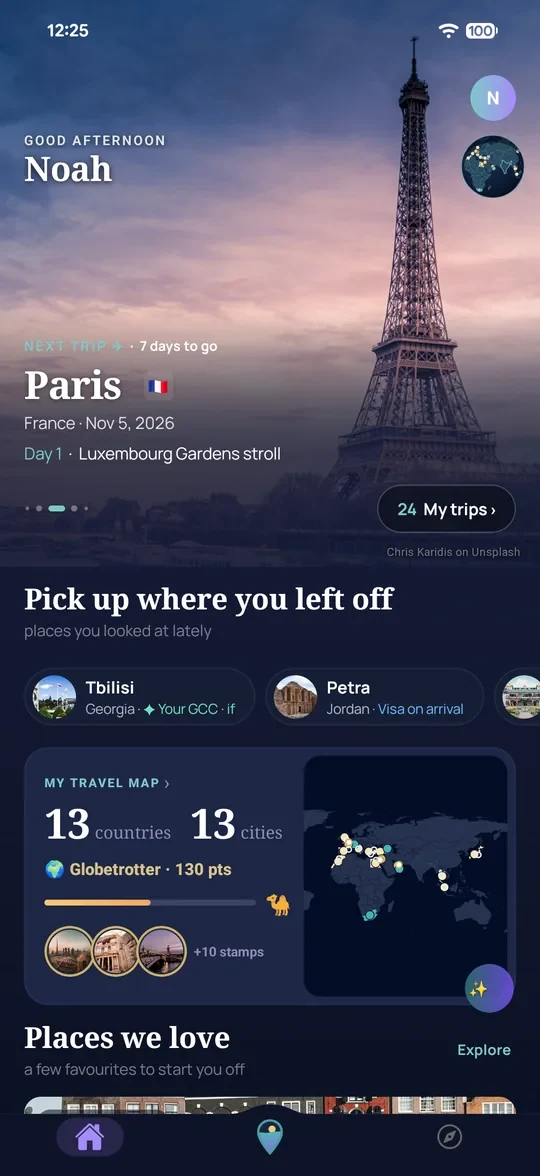
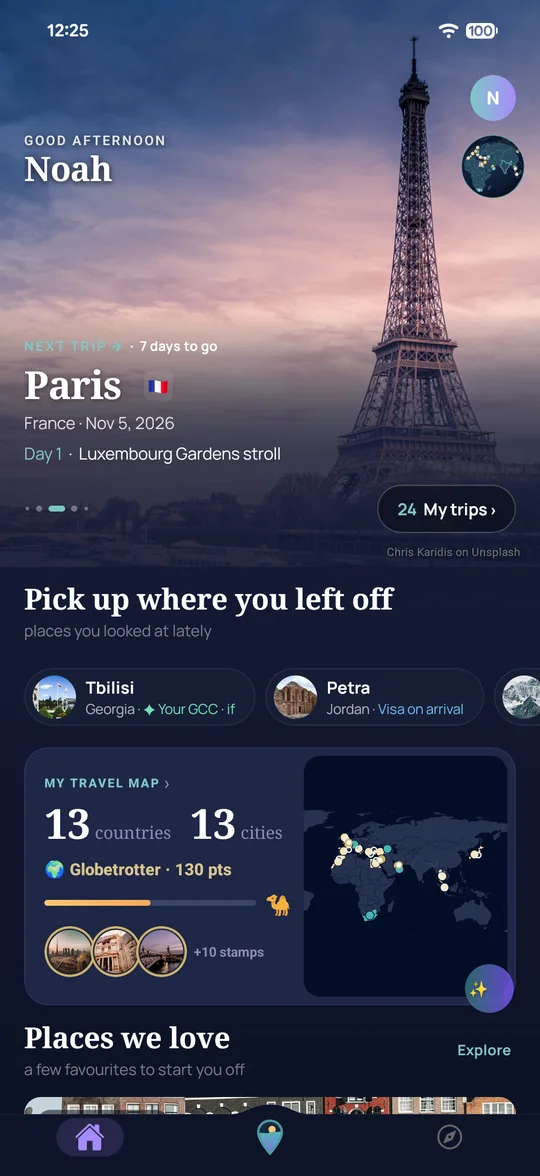
HQ #97 item 3 (founder, 1 Nov 2026 17:49/17:52): Delhi out of the three hero phone pictures - "Pick up where you left off" reads Tbilisi · Petra · Swiss Alps
The test account (cryptcalls) opened Swiss Alps, Petra and Tbilisi in the release app (v71) on the Pixel; its real Home was captured at
18:29. Only the chip row (rows 1255-1348 of the 1008x2244 capture, aligned to the pixel: the title rows above match exactly) was put into
the approved captures - the 31 Oct design-system sources that carry the #39 white 100 battery. Same pictures, same crops (540x1202, top
1176), same sizes; outside the row the pictures differ only by WebP re-encoding noise. A fresh reviewer first FAILED a version built from
the 30 Oct sources (it brought back the green charging battery); rebuilt from the right sources, it passed all five checks.
"Swiss Alps" is a real place in the app (the region row), so no stand-in was needed.
stamp-assets moved the three fingerprints (index.html, check.html), so a returning phone gets the new pictures.

diff --git a/index.html b/index.html
@@ -252,7 +252,7 @@
       <div class="glow"></div>
       <div class="phone"><div class="scr" id="scr">
 <!-- PHONE:START (written by tools/build-home.js) -->
-        <img class="on" src="/assets/app/home-paris.webp?v=2090466f" alt="The brimm Home screen with a Paris trip as the next trip" width="540" height="1176" fetchpriority="high">
+        <img class="on" src="/assets/app/home-paris.webp?v=abe58dd3" alt="The brimm Home screen with a Paris trip as the next trip" width="540" height="1176" fetchpriority="high">
 <!-- PHONE:END -->
       </div></div>
     </div>
@@ -398,7 +398,7 @@
   // Less motion asked for: the first photo stays, nothing moves.
   // every address built below asks av() for its fingerprint (HQ #94: a changed photo gets a new address, so no phone keeps the old one)
 /* ASSET-V:START (written by tools/stamp-assets.js) */
-  var AV = {"app/also.webp":"cdd0a7aa","app/ask.webp":"ae39a017","app/besttime.webp":"d264b3b8","app/budget.webp":"dda03dbe","app/chip-petra.webp":"39472d30","app/chip-tbilisi.webp":"83dbde8c","app/day.webp":"7b109c97","app/explore.webp":"1314bd23","app/globe.webp":"0f9b79ec","app/home-dubai.webp":"6b682856","app/home-paris.webp":"2090466f","app/home-singapore.webp":"1c4b822e","app/planning.webp":"79bc8ded","app/share.webp":"c0c731f5","app/travelmap.webp":"1ccfdc11","app/uae.webp":"93ff21cf","app/visa.webp":"4359d7c2","hero/abu-dhabi-960.jpg":"b495e8d6","hero/abu-dhabi.jpg":"3c96eb57","hero/baku-960.jpg":"2e6baacf","hero/baku.jpg":"ee3646d0","hero/bali-960.jpg":"a685dd7e","hero/bali-wall.jpg":"aad88f09","hero/bali.jpg":"7ca5cab7","hero/bangkok-960.jpg":"117b2ed4","hero/bangkok.jpg":"19b265f6","hero/barcelona-960.jpg":"acccb6ac","hero/cairo-960.jpg":"76a563a4","hero/cairo.jpg":"1c61ad8c","hero/cappadocia-960.jpg":"06f9c241","hero/cappadocia.jpg":"a687e9fa","hero/chiang-mai-960.jpg":"c4c6c698","hero/chiang-mai.jpg":"4d976f59","hero/doha-960.jpg":"056dbd39","hero/doha.jpg":"df99608a","hero/dubai-960.jpg":"b76ada80","hero/dubai.jpg":"064d296c","hero/goa-960.jpg":"72a9728a","hero/goa.jpg":"6beab113","hero/istanbul-960.jpg":"6e2f39fc","hero/istanbul-wall.jpg":"9a3cd34e","hero/istanbul.jpg":"ffcbb2fb","hero/kyoto-960.jpg":"e53f0be6","hero/kyoto.jpg":"75c1ecd7","hero/lisbon-960.jpg":"de79f1da","hero/lisbon.jpg":"1238d5ba","hero/london-960.jpg":"c7d7e65d","hero/london.jpg":"7111b088","hero/machu-picchu-960.jpg":"d9f8ff65","hero/machu-picchu.jpg":"70fb75d0","hero/maldives-960.jpg":"3dd16df2","hero/maldives.jpg":"08fbebd2","hero/marrakech-960.jpg":"0cba6f1b","hero/marrakech.jpg":"8accbdf5","hero/muscat-960.jpg":"a1c385fe","hero/muscat.jpg":"7089d9ff","hero/paris-960.jpg":"29bad64f","hero/paris-wall.jpg":"ec1a3818","hero/paris.jpg":"d1cf2fac","hero/petra-960.jpg":"8d74744c","hero/petra.jpg":"b8664f04","hero/pokhara-960.jpg":"78856d46","hero/pokhara.jpg":"273b11a2","hero/queenstown-960.jpg":"280d095c","hero/queenstown.jpg":"2177e851","hero/rome-960.jpg":"2fb2dc83","hero/singapore-960.jpg":"e000fc0c","hero/singapore.jpg":"d4d8044b","hero/tbilisi-960.jpg":"1110d453","hero/tbilisi-spot.jpg":"8b830c70","hero/tbilisi.jpg":"06f370b5","hero/tokyo-960.jpg":"22140087","hero/tokyo.jpg":"20a36e7e","hero/wadi-rum-960.jpg":"e25d3594","hero/wadi-rum.jpg":"ac1dd86f","hero/zanzibar-960.jpg":"71947f8c","hero/zanzibar.jpg":"cc33c1b5","hero/zurich-960.jpg":"0b56dd11","hero/zurich.jpg":"c5348f3f"};
+  var AV = {"app/also.webp":"cdd0a7aa","app/ask.webp":"ae39a017","app/besttime.webp":"d264b3b8","app/budget.webp":"dda03dbe","app/chip-petra.webp":"39472d30","app/chip-tbilisi.webp":"83dbde8c","app/day.webp":"7b109c97","app/explore.webp":"1314bd23","app/globe.webp":"0f9b79ec","app/home-dubai.webp":"543b5324","app/home-paris.webp":"abe58dd3","app/home-singapore.webp":"211e1ef4","app/planning.webp":"79bc8ded","app/share.webp":"c0c731f5","app/travelmap.webp":"1ccfdc11","app/uae.webp":"93ff21cf","app/visa.webp":"4359d7c2","hero/abu-dhabi-960.jpg":"b495e8d6","hero/abu-dhabi.jpg":"3c96eb57","hero/baku-960.jpg":"2e6baacf","hero/baku.jpg":"ee3646d0","hero/bali-960.jpg":"a685dd7e","hero/bali-wall.jpg":"aad88f09","hero/bali.jpg":"7ca5cab7","hero/bangkok-960.jpg":"117b2ed4","hero/bangkok.jpg":"19b265f6","hero/barcelona-960.jpg":"acccb6ac","hero/cairo-960.jpg":"76a563a4","hero/cairo.jpg":"1c61ad8c","hero/cappadocia-960.jpg":"06f9c241","hero/cappadocia.jpg":"a687e9fa","hero/chiang-mai-960.jpg":"c4c6c698","hero/chiang-mai.jpg":"4d976f59","hero/doha-960.jpg":"056dbd39","hero/doha.jpg":"df99608a","hero/dubai-960.jpg":"b76ada80","hero/dubai.jpg":"064d296c","hero/goa-960.jpg":"72a9728a","hero/goa.jpg":"6beab113","hero/istanbul-960.jpg":"6e2f39fc","hero/istanbul-wall.jpg":"9a3cd34e","hero/istanbul.jpg":"ffcbb2fb","hero/kyoto-960.jpg":"e53f0be6","hero/kyoto.jpg":"75c1ecd7","hero/lisbon-960.jpg":"de79f1da","hero/lisbon.jpg":"1238d5ba","hero/london-960.jpg":"c7d7e65d","hero/london.jpg":"7111b088","hero/machu-picchu-960.jpg":"d9f8ff65","hero/machu-picchu.jpg":"70fb75d0","hero/maldives-960.jpg":"3dd16df2","hero/maldives.jpg":"08fbebd2","hero/marrakech-960.jpg":"0cba6f1b","hero/marrakech.jpg":"8accbdf5","hero/muscat-960.jpg":"a1c385fe","hero/muscat.jpg":"7089d9ff","hero/paris-960.jpg":"29bad64f","hero/paris-wall.jpg":"ec1a3818","hero/paris.jpg":"d1cf2fac","hero/petra-960.jpg":"8d74744c","hero/petra.jpg":"b8664f04","hero/pokhara-960.jpg":"78856d46","hero/pokhara.jpg":"273b11a2","hero/queenstown-960.jpg":"280d095c","hero/queenstown.jpg":"2177e851","hero/rome-960.jpg":"2fb2dc83","hero/singapore-960.jpg":"e000fc0c","hero/singapore.jpg":"d4d8044b","hero/tbilisi-960.jpg":"1110d453","hero/tbilisi-spot.jpg":"8b830c70","hero/tbilisi.jpg":"06f370b5","hero/tokyo-960.jpg":"22140087","hero/tokyo.jpg":"20a36e7e","hero/wadi-rum-960.jpg":"e25d3594","hero/wadi-rum.jpg":"ac1dd86f","hero/zanzibar-960.jpg":"71947f8c","hero/zanzibar.jpg":"cc33c1b5","hero/zurich-960.jpg":"0b56dd11","hero/zurich.jpg":"c5348f3f"};
   function av(u) { var k = u.replace(/^\/assets\//, ''); return AV[k] ? u + '?v=' + AV[k] : u; }
   /* ASSET-V:END */
 /* PHOTOS:START (written by tools/build-home.js) */

diff --git a/check.html b/check.html
@@ -233,7 +233,7 @@
   // the engine build's fingerprint — written by brimm-ai tools/website-check/build-engine.js, so a new engine is never served from a cache
   // every photo address built below asks av() for its fingerprint (HQ #94)
   /* ASSET-V:START (written by tools/stamp-assets.js) */
-  var AV = {"app/also.webp":"cdd0a7aa","app/ask.webp":"ae39a017","app/besttime.webp":"d264b3b8","app/budget.webp":"dda03dbe","app/chip-petra.webp":"39472d30","app/chip-tbilisi.webp":"83dbde8c","app/day.webp":"7b109c97","app/explore.webp":"1314bd23","app/globe.webp":"0f9b79ec","app/home-dubai.webp":"6b682856","app/home-paris.webp":"2090466f","app/home-singapore.webp":"1c4b822e","app/planning.webp":"79bc8ded","app/share.webp":"c0c731f5","app/travelmap.webp":"1ccfdc11","app/uae.webp":"93ff21cf","app/visa.webp":"4359d7c2","hero/abu-dhabi-960.jpg":"b495e8d6","hero/abu-dhabi.jpg":"3c96eb57","hero/baku-960.jpg":"2e6baacf","hero/baku.jpg":"ee3646d0","hero/bali-960.jpg":"a685dd7e","hero/bali-wall.jpg":"aad88f09","hero/bali.jpg":"7ca5cab7","hero/bangkok-960.jpg":"117b2ed4","hero/bangkok.jpg":"19b265f6","hero/barcelona-960.jpg":"acccb6ac","hero/cairo-960.jpg":"76a563a4","hero/cairo.jpg":"1c61ad8c","hero/cappadocia-960.jpg":"06f9c241","hero/cappadocia.jpg":"a687e9fa","hero/chiang-mai-960.jpg":"c4c6c698","hero/chiang-mai.jpg":"4d976f59","hero/doha-960.jpg":"056dbd39","hero/doha.jpg":"df99608a","hero/dubai-960.jpg":"b76ada80","hero/dubai.jpg":"064d296c","hero/goa-960.jpg":"72a9728a","hero/goa.jpg":"6beab113","hero/istanbul-960.jpg":"6e2f39fc","hero/istanbul-wall.jpg":"9a3cd34e","hero/istanbul.jpg":"ffcbb2fb","hero/kyoto-960.jpg":"e53f0be6","hero/kyoto.jpg":"75c1ecd7","hero/lisbon-960.jpg":"de79f1da","hero/lisbon.jpg":"1238d5ba","hero/london-960.jpg":"c7d7e65d","hero/london.jpg":"7111b088","hero/machu-picchu-960.jpg":"d9f8ff65","hero/machu-picchu.jpg":"70fb75d0","hero/maldives-960.jpg":"3dd16df2","hero/maldives.jpg":"08fbebd2","hero/marrakech-960.jpg":"0cba6f1b","hero/marrakech.jpg":"8accbdf5","hero/muscat-960.jpg":"a1c385fe","hero/muscat.jpg":"7089d9ff","hero/paris-960.jpg":"29bad64f","hero/paris-wall.jpg":"ec1a3818","hero/paris.jpg":"d1cf2fac","hero/petra-960.jpg":"8d74744c","hero/petra.jpg":"b8664f04","hero/pokhara-960.jpg":"78856d46","hero/pokhara.jpg":"273b11a2","hero/queenstown-960.jpg":"280d095c","hero/queenstown.jpg":"2177e851","hero/rome-960.jpg":"2fb2dc83","hero/singapore-960.jpg":"e000fc0c","hero/singapore.jpg":"d4d8044b","hero/tbilisi-960.jpg":"1110d453","hero/tbilisi-spot.jpg":"8b830c70","hero/tbilisi.jpg":"06f370b5","hero/tokyo-960.jpg":"22140087","hero/tokyo.jpg":"20a36e7e","hero/wadi-rum-960.jpg":"e25d3594","hero/wadi-rum.jpg":"ac1dd86f","hero/zanzibar-960.jpg":"71947f8c","hero/zanzibar.jpg":"cc33c1b5","hero/zurich-960.jpg":"0b56dd11","hero/zurich.jpg":"c5348f3f"};
+  var AV = {"app/also.webp":"cdd0a7aa","app/ask.webp":"ae39a017","app/besttime.webp":"d264b3b8","app/budget.webp":"dda03dbe","app/chip-petra.webp":"39472d30","app/chip-tbilisi.webp":"83dbde8c","app/day.webp":"7b109c97","app/explore.webp":"1314bd23","app/globe.webp":"0f9b79ec","app/home-dubai.webp":"543b5324","app/home-paris.webp":"abe58dd3","app/home-singapore.webp":"211e1ef4","app/planning.webp":"79bc8ded","app/share.webp":"c0c731f5","app/travelmap.webp":"1ccfdc11","app/uae.webp":"93ff21cf","app/visa.webp":"4359d7c2","hero/abu-dhabi-960.jpg":"b495e8d6","hero/abu-dhabi.jpg":"3c96eb57","hero/baku-960.jpg":"2e6baacf","hero/baku.jpg":"ee3646d0","hero/bali-960.jpg":"a685dd7e","hero/bali-wall.jpg":"aad88f09","hero/bali.jpg":"7ca5cab7","hero/bangkok-960.jpg":"117b2ed4","hero/bangkok.jpg":"19b265f6","hero/barcelona-960.jpg":"acccb6ac","hero/cairo-960.jpg":"76a563a4","hero/cairo.jpg":"1c61ad8c","hero/cappadocia-960.jpg":"06f9c241","hero/cappadocia.jpg":"a687e9fa","hero/chiang-mai-960.jpg":"c4c6c698","hero/chiang-mai.jpg":"4d976f59","hero/doha-960.jpg":"056dbd39","hero/doha.jpg":"df99608a","hero/dubai-960.jpg":"b76ada80","hero/dubai.jpg":"064d296c","hero/goa-960.jpg":"72a9728a","hero/goa.jpg":"6beab113","hero/istanbul-960.jpg":"6e2f39fc","hero/istanbul-wall.jpg":"9a3cd34e","hero/istanbul.jpg":"ffcbb2fb","hero/kyoto-960.jpg":"e53f0be6","hero/kyoto.jpg":"75c1ecd7","hero/lisbon-960.jpg":"de79f1da","hero/lisbon.jpg":"1238d5ba","hero/london-960.jpg":"c7d7e65d","hero/london.jpg":"7111b088","hero/machu-picchu-960.jpg":"d9f8ff65","hero/machu-picchu.jpg":"70fb75d0","hero/maldives-960.jpg":"3dd16df2","hero/maldives.jpg":"08fbebd2","hero/marrakech-960.jpg":"0cba6f1b","hero/marrakech.jpg":"8accbdf5","hero/muscat-960.jpg":"a1c385fe","hero/muscat.jpg":"7089d9ff","hero/paris-960.jpg":"29bad64f","hero/paris-wall.jpg":"ec1a3818","hero/paris.jpg":"d1cf2fac","hero/petra-960.jpg":"8d74744c","hero/petra.jpg":"b8664f04","hero/pokhara-960.jpg":"78856d46","hero/pokhara.jpg":"273b11a2","hero/queenstown-960.jpg":"280d095c","hero/queenstown.jpg":"2177e851","hero/rome-960.jpg":"2fb2dc83","hero/singapore-960.jpg":"e000fc0c","hero/singapore.jpg":"d4d8044b","hero/tbilisi-960.jpg":"1110d453","hero/tbilisi-spot.jpg":"8b830c70","hero/tbilisi.jpg":"06f370b5","hero/tokyo-960.jpg":"22140087","hero/tokyo.jpg":"20a36e7e","hero/wadi-rum-960.jpg":"e25d3594","hero/wadi-rum.jpg":"ac1dd86f","hero/zanzibar-960.jpg":"71947f8c","hero/zanzibar.jpg":"cc33c1b5","hero/zurich-960.jpg":"0b56dd11","hero/zurich.jpg":"c5348f3f"};
   function av(u) { var k = u.replace(/^\/assets\//, ''); return AV[k] ? u + '?v=' + AV[k] : u; }
   /* ASSET-V:END */
   const ENGINE_V = '9535fd14cb';
